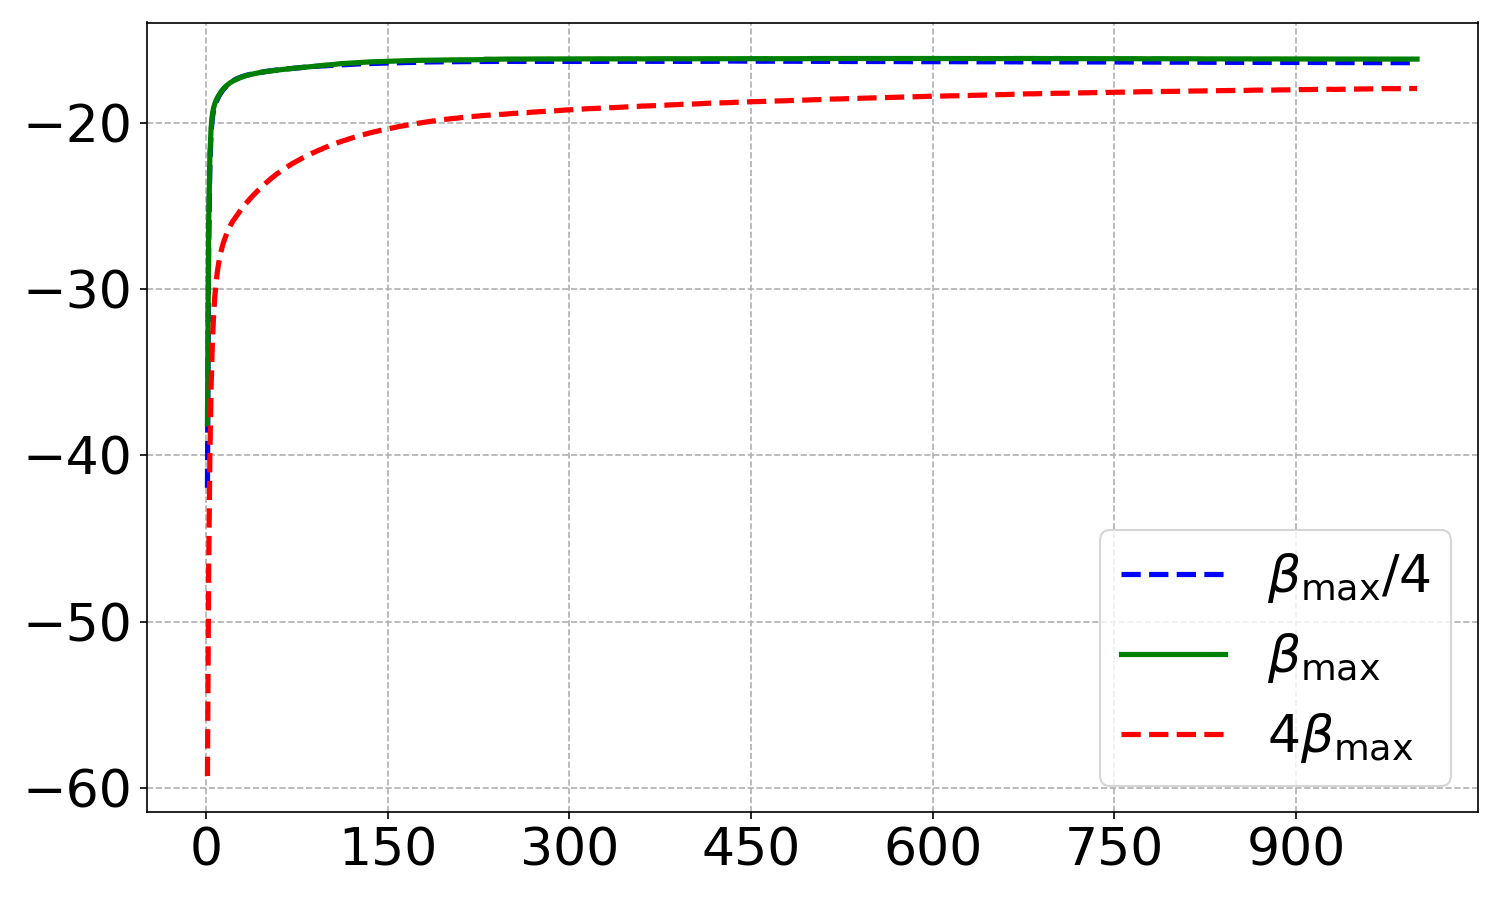
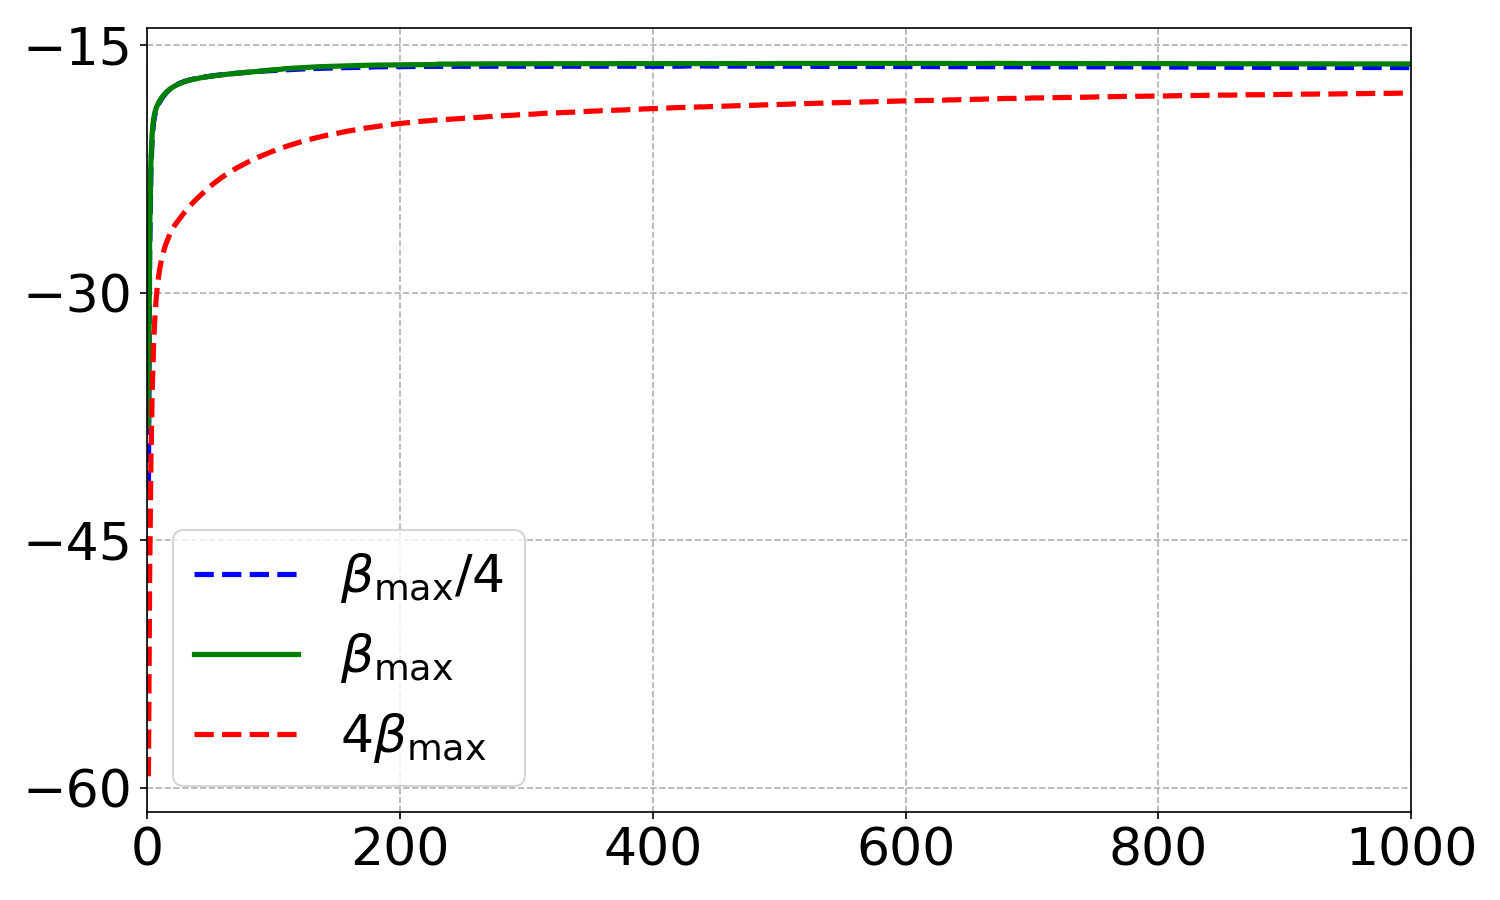
2026/8/12

diff --git a/Ising/training_GBRBM/Conf-exp/EXP_toy_data/alpha_0.5/plot_results_conf.py b/Ising/training_GBRBM/Conf-exp/EXP_toy_data/alpha_0.5/plot_results_conf.py
@@ -1,6 +1,6 @@
 import numpy as np
 import matplotlib.pyplot as plt
-import matplotlib.ticker as ticker # 追加: 目盛りの設定用モジュール
+import matplotlib.ticker as ticker # 目盛りの設定用モジュール
 import os
 
 # ==========================================
@@ -10,8 +10,8 @@ INPUT_FILE = "Exp-results.txt"
 OUTPUT_IMAGE = "log_likelihood_plot.png"
 
 # 描画するエポックの範囲を指定 (最初から最後まで描画する場合は None に設定してください)
-START_EPOCH = 200
-END_EPOCH = 600
+START_EPOCH = None
+END_EPOCH = None
 
 # --- フォント・レイアウト設定 ---
 TICK_FONT_SIZE = 25      # 軸の目盛りのフォントサイズ
@@ -19,12 +19,10 @@ LEGEND_FONT_SIZE = 25    # 凡例のフォントサイズ
 
 # 凡例の配置位置を指定
 # 'best': グラフの線と重ならない最適な位置を自動で探して配置します
-# その他手動設定: 'upper right', 'lower right', 'upper left', 'lower left' など
 LEGEND_LOC = 'best'
 
 # 描画する対象の列名（グラフ）をリストで指定してください。
-# すべての "Mean" 列を描画したい場合は None に設定してください。
-PLOT_COLUMNS = ["chi_Mean_0.2775", "chi_Mean_1.11"]#, "chi_Mean_4.44"] #α=0.5
+PLOT_COLUMNS = ["chi_Mean_0.2775", "chi_Mean_1.11", "chi_Mean_4.44"] #α=0.5
 
 def main():
     # 1. ファイルの存在確認
@@ -84,7 +82,6 @@ def main():
     plt.figure(figsize=(10, 6))
     
     for i, (idx, col) in enumerate(zip(mean_indices, mean_columns)):
-        # 該当列のデータを抽出
         mean_values = data[:, idx]
         
         # --- ラベルと色、線種の判定 ---
@@ -101,7 +98,6 @@ def main():
             c = 'red'
             ls = '--'  # 破線
         else:
-            # 想定外の列名の場合はそのまま出力して黒の破線にする
             label_text = col
             c = 'black'
             ls = '--'
@@ -109,15 +105,45 @@ def main():
         # プロット
         plt.plot(epochs, mean_values, color=c, linestyle=ls, linewidth=2.5, label=label_text)
 
-    # グラフの装飾
-    # 追加: X軸の目盛りを強制的に整数（自然数）にする
-    plt.gca().xaxis.set_major_locator(ticker.MaxNLocator(integer=True))
+    # ==========================================
+    # グラフの装飾 (目盛りのカスタム設定)
+    # ==========================================
+    # --- Y軸: 最大5個の目盛りに制限 (nbins=4 で 5個の区切り) ---
+    plt.gca().yaxis.set_major_locator(ticker.MaxNLocator(nbins=4))
     
-    plt.xticks(fontsize=TICK_FONT_SIZE)
+    # --- X軸: 10の倍数で最大6個、開始・終了を必ず含む ---
+    actual_start = int(epochs.min())
+    actual_end = int(epochs.max())
+    
+    # 確実な10の倍数に丸める
+    start_tick = (actual_start // 10) * 10
+    end_tick = int(np.ceil(actual_end / 10.0)) * 10
+    span = end_tick - start_tick
+    
+    # 最大6個(5区間)の目盛りを作成するため、10の倍数のステップ幅を計算
+    step = int(np.ceil((span / 5.0) / 10.0) * 10)
+    if step == 0:
+        step = 10
+        
+    x_ticks = list(range(start_tick, end_tick, step))
+    # 終了エポックを必ず含める
+    if not x_ticks or x_ticks[-1] != end_tick:
+        x_ticks.append(end_tick)
+        
+    # もし目盛りが6個を超えてしまった場合の保険処理
+    while len(x_ticks) > 6:
+        step += 10
+        x_ticks = list(range(start_tick, end_tick, step))
+        if not x_ticks or x_ticks[-1] != end_tick:
+            x_ticks.append(end_tick)
+
+    # 計算したリストをX軸の目盛りに強制設定
+    plt.xticks(x_ticks, fontsize=TICK_FONT_SIZE)
+    # グラフの左右の余白を消してスッキリさせる
+    plt.xlim(start_tick, end_tick) 
+    
     plt.yticks(fontsize=TICK_FONT_SIZE)
-    
     plt.grid(True, linestyle='--')
-    # 凡例の配置を LEGEND_LOC で指定
     plt.legend(loc=LEGEND_LOC, fontsize=LEGEND_FONT_SIZE)
     plt.tight_layout()
 
@@ -125,7 +151,6 @@ def main():
     plt.savefig(OUTPUT_IMAGE, dpi=150)
     print(f"\nプロット完了。画像を保存しました: {os.path.abspath(OUTPUT_IMAGE)}")
     
-    # グラフを画面にも表示
     plt.show()
 
 if __name__ == "__main__":

diff --git a/Ising/training_GBRBM/Conf-exp/EXP_toy_data/alpha_1.0/plot_results_conf.py b/Ising/training_GBRBM/Conf-exp/EXP_toy_data/alpha_1.0/plot_results_conf.py
@@ -1,6 +1,6 @@
 import numpy as np
 import matplotlib.pyplot as plt
-import matplotlib.ticker as ticker # 追加: 目盛りの設定用モジュール
+import matplotlib.ticker as ticker # 目盛りの設定用モジュール
 import os
 
 # ==========================================
@@ -10,8 +10,8 @@ INPUT_FILE = "Exp-results.txt"
 OUTPUT_IMAGE = "log_likelihood_plot.png"
 
 # 描画するエポックの範囲を指定 (最初から最後まで描画する場合は None に設定してください)
-START_EPOCH = 200
-END_EPOCH = 600
+START_EPOCH = 350
+END_EPOCH = 500
 
 # --- フォント・レイアウト設定 ---
 TICK_FONT_SIZE = 25      # 軸の目盛りのフォントサイズ
@@ -19,12 +19,10 @@ LEGEND_FONT_SIZE = 25    # 凡例のフォントサイズ
 
 # 凡例の配置位置を指定
 # 'best': グラフの線と重ならない最適な位置を自動で探して配置します
-# その他手動設定: 'upper right', 'lower right', 'upper left', 'lower left' など
 LEGEND_LOC = 'best'
 
 # 描画する対象の列名（グラフ）をリストで指定してください。
-# すべての "Mean" 列を描画したい場合は None に設定してください。
-PLOT_COLUMNS = ["chi_Mean_0.25", "chi_Mean_1.0"]#, "chi_Mean_4.0"] #α=1.0
+PLOT_COLUMNS = ["chi_Mean_0.25", "chi_Mean_1.0", "chi_Mean_4.0"] #α=1.0
 
 def main():
     # 1. ファイルの存在確認
@@ -84,7 +82,6 @@ def main():
     plt.figure(figsize=(10, 6))
     
     for i, (idx, col) in enumerate(zip(mean_indices, mean_columns)):
-        # 該当列のデータを抽出
         mean_values = data[:, idx]
         
         # --- ラベルと色、線種の判定 ---
@@ -101,7 +98,6 @@ def main():
             c = 'red'
             ls = '--'  # 破線
         else:
-            # 想定外の列名の場合はそのまま出力して黒の破線にする
             label_text = col
             c = 'black'
             ls = '--'
@@ -109,15 +105,45 @@ def main():
         # プロット
         plt.plot(epochs, mean_values, color=c, linestyle=ls, linewidth=2.5, label=label_text)
 
-    # グラフの装飾
-    # 追加: X軸の目盛りを強制的に整数（自然数）にする
-    plt.gca().xaxis.set_major_locator(ticker.MaxNLocator(integer=True))
+    # ==========================================
+    # グラフの装飾 (目盛りのカスタム設定)
+    # ==========================================
+    # --- Y軸: 最大5個の目盛りに制限 (nbins=4 で 5個の区切り) ---
+    plt.gca().yaxis.set_major_locator(ticker.MaxNLocator(nbins=4))
     
-    plt.xticks(fontsize=TICK_FONT_SIZE)
+    # --- X軸: 10の倍数で最大6個、開始・終了を必ず含む ---
+    actual_start = int(epochs.min())
+    actual_end = int(epochs.max())
+    
+    # 確実な10の倍数に丸める
+    start_tick = (actual_start // 10) * 10
+    end_tick = int(np.ceil(actual_end / 10.0)) * 10
+    span = end_tick - start_tick
+    
+    # 最大6個(5区間)の目盛りを作成するため、10の倍数のステップ幅を計算
+    step = int(np.ceil((span / 5.0) / 10.0) * 10)
+    if step == 0:
+        step = 10
+        
+    x_ticks = list(range(start_tick, end_tick, step))
+    # 終了エポックを必ず含める
+    if not x_ticks or x_ticks[-1] != end_tick:
+        x_ticks.append(end_tick)
+        
+    # もし目盛りが6個を超えてしまった場合の保険処理
+    while len(x_ticks) > 6:
+        step += 10
+        x_ticks = list(range(start_tick, end_tick, step))
+        if not x_ticks or x_ticks[-1] != end_tick:
+            x_ticks.append(end_tick)
+
+    # 計算したリストをX軸の目盛りに強制設定
+    plt.xticks(x_ticks, fontsize=TICK_FONT_SIZE)
+    # グラフの左右の余白を消してスッキリさせる
+    plt.xlim(start_tick, end_tick) 
+    
     plt.yticks(fontsize=TICK_FONT_SIZE)
-    
     plt.grid(True, linestyle='--')
-    # 凡例の配置を LEGEND_LOC で指定
     plt.legend(loc=LEGEND_LOC, fontsize=LEGEND_FONT_SIZE)
     plt.tight_layout()
 
@@ -125,7 +151,6 @@ def main():
     plt.savefig(OUTPUT_IMAGE, dpi=150)
     print(f"\nプロット完了。画像を保存しました: {os.path.abspath(OUTPUT_IMAGE)}")
     
-    # グラフを画面にも表示
     plt.show()
 
 if __name__ == "__main__":

diff --git a/Ising/training_GBRBM/Conf-exp/EXP_toy_data/alpha_2.0/plot_results_conf.py b/Ising/training_GBRBM/Conf-exp/EXP_toy_data/alpha_2.0/plot_results_conf.py
@@ -1,6 +1,6 @@
 import numpy as np
 import matplotlib.pyplot as plt
-import matplotlib.ticker as ticker # 追加: 目盛りの設定用モジュール
+import matplotlib.ticker as ticker # 目盛りの設定用モジュール
 import os
 
 # ==========================================
@@ -11,7 +11,7 @@ OUTPUT_IMAGE = "log_likelihood_plot.png"
 
 # 描画するエポックの範囲を指定 (最初から最後まで描画する場合は None に設定してください)
 START_EPOCH = None
-END_EPOCH = 600
+END_EPOCH = 10
 
 # --- フォント・レイアウト設定 ---
 TICK_FONT_SIZE = 25      # 軸の目盛りのフォントサイズ
@@ -19,11 +19,9 @@ LEGEND_FONT_SIZE = 25    # 凡例のフォントサイズ
 
 # 凡例の配置位置を指定
 # 'best': グラフの線と重ならない最適な位置を自動で探して配置します
-# その他手動設定: 'upper right', 'lower right', 'upper left', 'lower left' など
 LEGEND_LOC = 'best'
 
 # 描画する対象の列名（グラフ）をリストで指定してください。
-# すべての "Mean" 列を描画したい場合は None に設定してください。
 PLOT_COLUMNS = ["chi_Mean_0.235", "chi_Mean_0.94", "chi_Mean_3.76"] #α=2.0
 
 def main():
@@ -84,7 +82,6 @@ def main():
     plt.figure(figsize=(10, 6))
     
     for i, (idx, col) in enumerate(zip(mean_indices, mean_columns)):
-        # 該当列のデータを抽出
         mean_values = data[:, idx]
         
         # --- ラベルと色、線種の判定 ---
@@ -101,7 +98,6 @@ def main():
             c = 'red'
             ls = '--'  # 破線
         else:
-            # 想定外の列名の場合はそのまま出力して黒の破線にする
             label_text = col
             c = 'black'
             ls = '--'
@@ -109,15 +105,45 @@ def main():
         # プロット
         plt.plot(epochs, mean_values, color=c, linestyle=ls, linewidth=2.5, label=label_text)
 
-    # グラフの装飾
-    # 追加: X軸の目盛りを強制的に整数（自然数）にする
-    plt.gca().xaxis.set_major_locator(ticker.MaxNLocator(integer=True))
+    # ==========================================
+    # グラフの装飾 (目盛りのカスタム設定)
+    # ==========================================
+    # --- Y軸: 最大5個の目盛りに制限 (nbins=4 で 5個の区切り) ---
+    plt.gca().yaxis.set_major_locator(ticker.MaxNLocator(nbins=4))
     
-    plt.xticks(fontsize=TICK_FONT_SIZE)
+    # --- X軸: 10の倍数で最大6個、開始・終了を必ず含む ---
+    actual_start = int(epochs.min())
+    actual_end = int(epochs.max())
+    
+    # 確実な10の倍数に丸める
+    start_tick = (actual_start // 10) * 10
+    end_tick = int(np.ceil(actual_end / 10.0)) * 10
+    span = end_tick - start_tick
+    
+    # 最大6個(5区間)の目盛りを作成するため、10の倍数のステップ幅を計算
+    step = int(np.ceil((span / 5.0) / 10.0) * 10)
+    if step == 0:
+        step = 10
+        
+    x_ticks = list(range(start_tick, end_tick, step))
+    # 終了エポックを必ず含める
+    if not x_ticks or x_ticks[-1] != end_tick:
+        x_ticks.append(end_tick)
+        
+    # もし目盛りが6個を超えてしまった場合の保険処理
+    while len(x_ticks) > 6:
+        step += 10
+        x_ticks = list(range(start_tick, end_tick, step))
+        if not x_ticks or x_ticks[-1] != end_tick:
+            x_ticks.append(end_tick)
+
+    # 計算したリストをX軸の目盛りに強制設定
+    plt.xticks(x_ticks, fontsize=TICK_FONT_SIZE)
+    # グラフの左右の余白を消してスッキリさせる
+    plt.xlim(start_tick, end_tick) 
+    
     plt.yticks(fontsize=TICK_FONT_SIZE)
-    
     plt.grid(True, linestyle='--')
-    # 凡例の配置を LEGEND_LOC で指定
     plt.legend(loc=LEGEND_LOC, fontsize=LEGEND_FONT_SIZE)
     plt.tight_layout()
 
@@ -125,7 +151,6 @@ def main():
     plt.savefig(OUTPUT_IMAGE, dpi=150)
     print(f"\nプロット完了。画像を保存しました: {os.path.abspath(OUTPUT_IMAGE)}")
     
-    # グラフを画面にも表示
     plt.show()
 
 if __name__ == "__main__":
